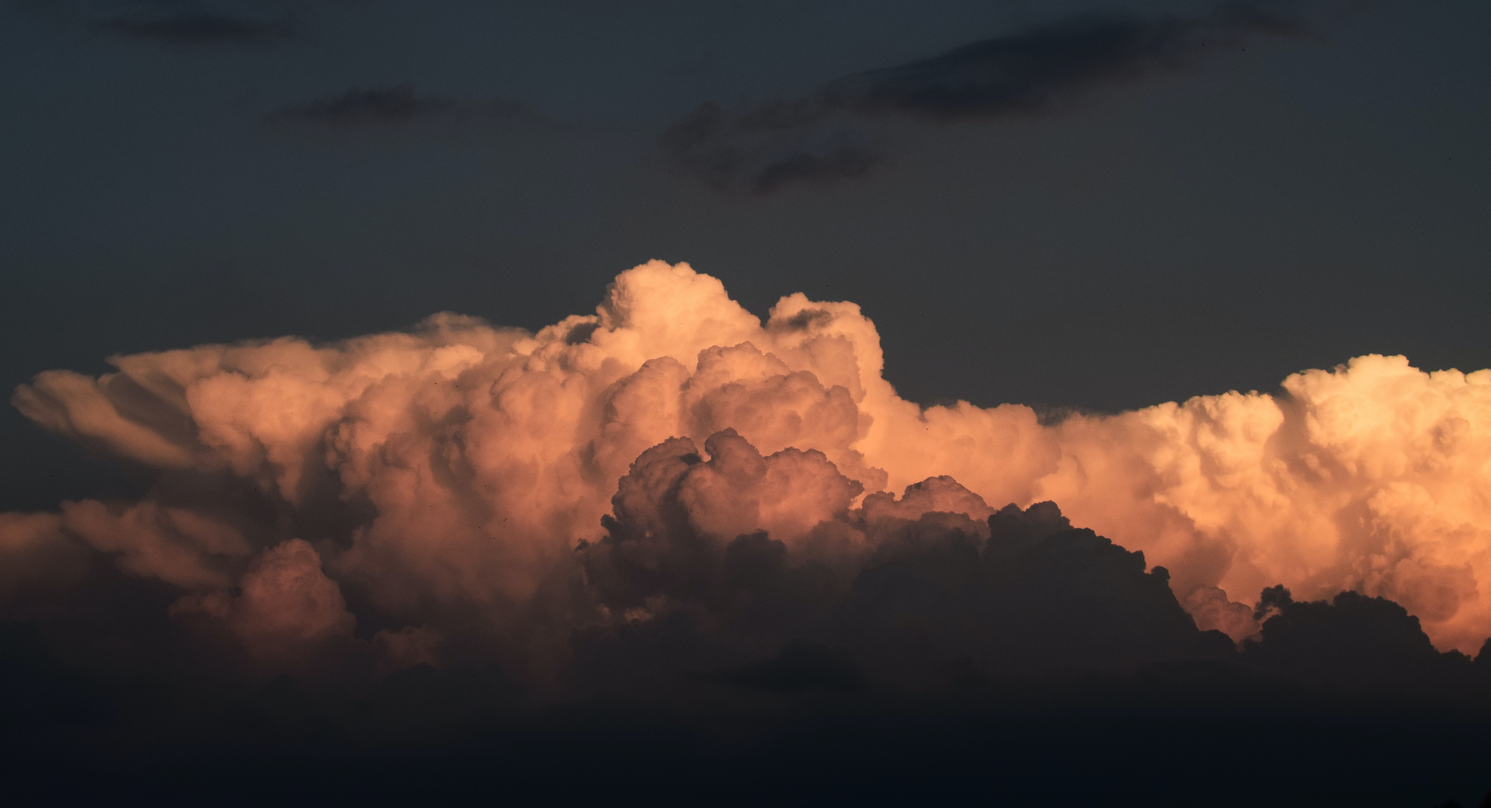
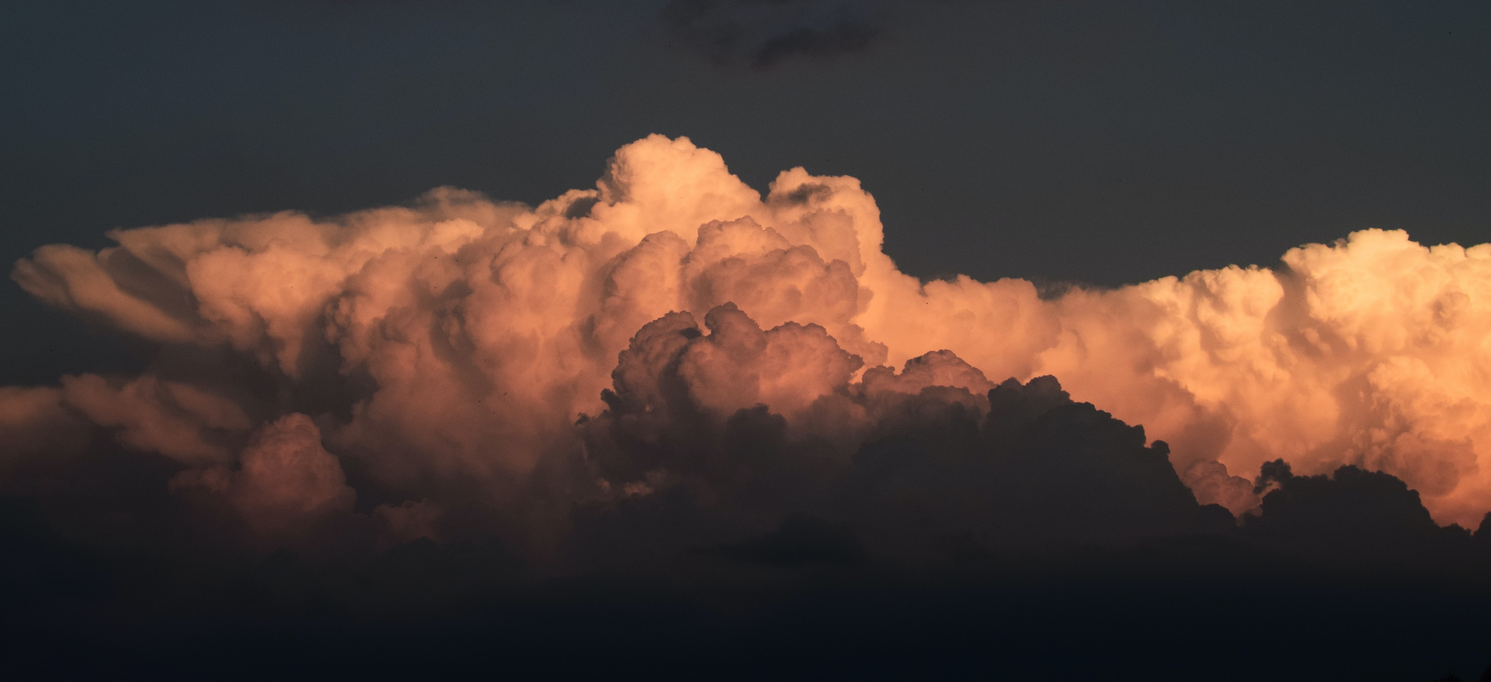
saturday2

diff --git a/styles/sass/_main.scss b/styles/sass/_main.scss
@@ -13,17 +13,17 @@ header {
   }
 }
 
-.image img {
-  height: 80%;
-  margin: 0 auto;
-  border-bottom: 30px solid black;
-}
 
 .image {
   background-image: url(../assets/aurora-green.jpg);
   background-size: calc(100% + 100px);
   background-repeat: no-repeat;
+  // height: 80%;
 }
+          .image img {
+            margin: 0 auto;
+            border-bottom: 30px solid black;
+          }
 
 .flex {
   display: flex;

diff --git a/script.js b/script.js
@@ -43,6 +43,18 @@ myApp.backgroundImages = [
     },
     {
         mood: 'yellow',
+        url: './assets/clouds-1.jpg',
+    },
+    {
+        mood: 'clouds',
+        url: './assets/clouds-2.jpg',
+    },
+    {
+        mood: 'aurora',
+        url: './assets/aurora-3.jpg',
+    },
+    {
+        mood: 'yellow',
         url: './assets/yellow-birds.jpg',
     },
     {

diff --git a/styles/style.css b/styles/style.css
@@ -272,16 +272,15 @@ header p {
   margin-bottom: 2rem;
 }
 
-.image img {
-  height: 80%;
-  margin: 0 auto;
-  border-bottom: 30px solid black;
-}
-
 .image {
   background-image: url(../assets/aurora-green.jpg);
   background-size: calc(100% + 100px);
   background-repeat: no-repeat;
+}
+
+.image img {
+  margin: 0 auto;
+  border-bottom: 30px solid black;
 }
 
 .flex {

diff --git a/index.html b/index.html
@@ -27,7 +27,7 @@
         />
       </div>
       <div class="btns flex wrapper">
-        <button id="aurora">Aurora Borealis</button>
+        <button id="aurora">Northern Lights</button>
         <button id="cartoon">Cartoon!</button>
         <button class="skyline-btn" id="skyline-btn">Change the skyline</button> 
         <button id="clouds">Fancy Clouds</button>
